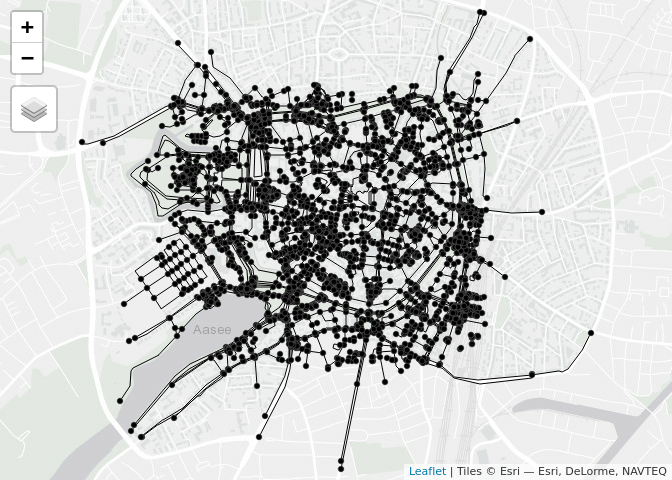
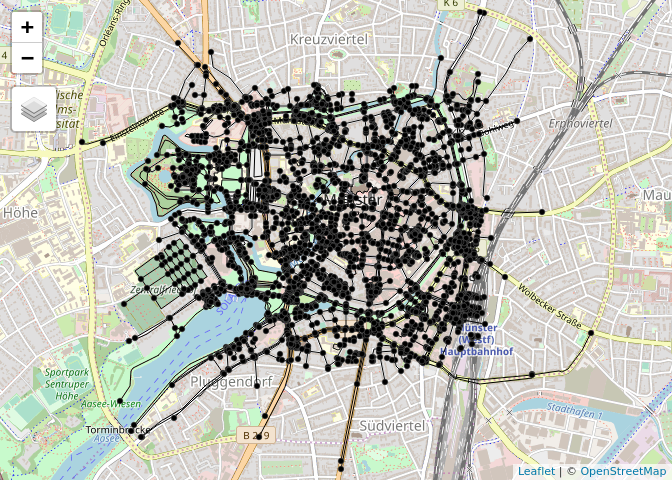
Change tmap base to OSM, better for zooming in

diff --git a/blogpost.md b/blogpost.md
@@ -667,7 +667,7 @@ ggplot() +
 
 Or, alternatively, in only a few lines of code, plot the network as an
 interactive map. On this page, the interactive map might show as an
-image, but [here](https://luukvdmeer.github.io/spnethack/map.html), you
+image, but [here](https://luukvdmeer.github.io/spnethack/imap.html), you
 should be able to really interact with it\!
 
 ``` r
@@ -676,7 +676,8 @@ tmap_mode('view')
 tm_shape(graph %>% activate(edges) %>% as_tibble() %>% st_as_sf()) +
   tm_lines() +
 tm_shape(graph %>% activate(nodes) %>% as_tibble() %>% st_as_sf()) +
-  tm_dots()
+  tm_dots() +
+tmap_options(basemaps = 'OpenStreetMap')
 ```
 
 ![](blogpost_files/figure-gfm/unnamed-chunk-19-1.png)<!-- -->
@@ -819,7 +820,7 @@ path$vpath
 ```
 
     ## [[1]]
-    ## + 82/3321 vertices, from 7b64a1c:
+    ## + 82/3321 vertices, from e2aabc5:
     ##  [1] 3284 2822 2905 2310 1382  226 2035  445  446  946  368  367 2848 2289
     ## [15] 2239 2393  152 1508 3014 3013 2951 2392 1201 1719 1197 3085 1194 1190
     ## [29]  552 1577 1185 1182 2124 1176 2125   59 1925  920 3162 2134 1902 1903
@@ -832,7 +833,7 @@ path$epath
 ```
 
     ## [[1]]
-    ## + 81/4681 edges from 7b64a1c:
+    ## + 81/4681 edges from e2aabc5:
     ##  [1] 2822--3284 2822--2905 2310--2905 1382--2310  226--1382  226--2035
     ##  [7]  445--2035  445-- 446  446-- 946  368-- 946  367-- 368  367--2848
     ## [13] 2289--2848 2239--2289 2239--2393  152--2393  152--1508 1508--3014
